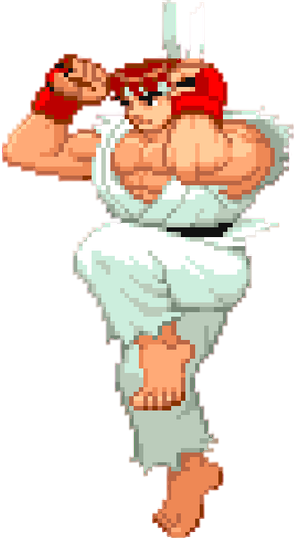
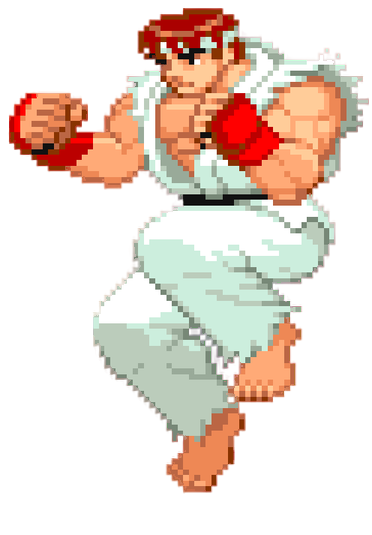
fix: ajusta a lógica de animação e atualiza as imagens de animação

diff --git a/js/Character.js b/js/Character.js
@@ -18,9 +18,9 @@ class Character {
         // Orientação (se é P1 olha pra direita, se é P2 olha pra esquerda)
         this.ePlayer1 = ePlayer1;
 
-        this.nome = nomePersonagem;
+        this.nome = nomePersonagem.toLowerCase();
 
-        this.orientacaoNativa = this.acharOrientacaoPersonagem(this.nome);
+        this.orientacaoNativa = this.acharOrientacaoPersonagem(nomePersonagem);
 
         // Velocidade de Movimento
         this.velocidadeX = 0;
@@ -38,9 +38,10 @@ class Character {
 
         //Contador da imagem
         this.contImg = 0;
+        this.derrotaImg = 0;
 
         // carrega a imagem de introdução ou estado atual
-        this.imagem.src = `assets/personagem/${this.nome.toLowerCase()}/${this.nome.toLowerCase()}-basic.png`;
+        this.imagem.src = `assets/personagem/${this.nome}/${this.nome}-basic.png`;
 
         // orientação do personagem
         this.olhandoParaEsquerda = !ePlayer1;
@@ -58,8 +59,8 @@ class Character {
         this.teclaJabLiberada = true;
         this.teclaChuteLiberada = true;
         // Tempo em milissegundos entre ataques
-        this.tempoCooldownAtaque = 320;
-        this.duracaoAtaque = 200;
+        this.tempoCooldownAtaque = 300;
+        this.duracaoAtaque = 220;
         this.atacando = false;
     }
 
@@ -168,11 +169,11 @@ class Character {
         if (!this.estaNoChao || this.atacando) return;
 
         if(this.contImg % 40 == 0){
-            this.imagem.src = `assets/personagem/${this.nome.toLowerCase()}/${this.nome.toLowerCase()}1.png`;
+            this.imagem.src = `assets/personagem/${this.nome}/${this.nome}1.png`;
         } else if (this.contImg % 40 == 12){
-            this.imagem.src = `assets/personagem/${this.nome.toLowerCase()}/${this.nome.toLowerCase()}2.png`;
+            this.imagem.src = `assets/personagem/${this.nome}/${this.nome}2.png`;
         } else if (this.contImg % 40 == 25){
-            this.imagem.src = `assets/personagem/${this.nome.toLowerCase()}/${this.nome.toLowerCase()}3.png`;
+            this.imagem.src = `assets/personagem/${this.nome}/${this.nome}3.png`;
         }
     }
 
@@ -183,10 +184,18 @@ class Character {
         // Não troca a imagem se estiver no ar ou atacando
         if (!this.estaNoChao || this.atacando) return;
 
-        if(this.contImg % 20 == 0){
-            this.imagem.src = `assets/personagem/${this.nome.toLowerCase()}/${this.nome.toLowerCase()}-front.png`;
-        } else if(this.contImg % 20 == 10){
-            this.imagem.src = `assets/personagem/${this.nome.toLowerCase()}/${this.nome.toLowerCase()}-front.png`;
+        if(this.ePlayer1){
+            if(this.contImg % 20 == 0){
+                this.imagem.src = `assets/personagem/${this.nome}/${this.nome}-basic.png`;
+            } else if(this.contImg % 20 == 10){
+                this.imagem.src = `assets/personagem/${this.nome}/${this.nome}-front.png`;
+            }
+        } else {
+            if(this.contImg % 20 == 0){
+                this.imagem.src = `assets/personagem/${this.nome}/${this.nome}-basic.png`;
+            } else if(this.contImg % 20 == 10){
+                this.imagem.src = `assets/personagem/${this.nome}/${this.nome}-late.png`;
+            }
         }
     }
 
@@ -197,10 +206,18 @@ class Character {
         // Não troca a imagem se estiver no ar ou atacando
         if (!this.estaNoChao || this.atacando) return;
 
-        if(this.contImg % 20 == 0){
-            this.imagem.src = `assets/personagem/${this.nome.toLowerCase()}/${this.nome.toLowerCase()}-late.png`;
-        } else if(this.contImg % 20 == 10){
-            this.imagem.src = `assets/personagem/${this.nome.toLowerCase()}/${this.nome.toLowerCase()}-late.png`;
+        if(this.ePlayer1){
+            if(this.contImg % 20 == 0){
+                this.imagem.src = `assets/personagem/${this.nome}/${this.nome}-basic.png`;
+            } else if(this.contImg % 20 == 10){
+                this.imagem.src = `assets/personagem/${this.nome}/${this.nome}-late.png`;
+            }
+        } else {
+            if(this.contImg % 20 == 0){
+                this.imagem.src = `assets/personagem/${this.nome}/${this.nome}-basic.png`;
+            } else if(this.contImg % 20 == 10){
+                this.imagem.src = `assets/personagem/${this.nome}/${this.nome}-front.png`;
+            }
         }
     }
 
@@ -209,14 +226,23 @@ class Character {
 
         this.podeAtacar = false;
         this.atacando = true;
-        this.imagem.src = `assets/personagem/${this.nome.toLowerCase()}/${this.nome.toLowerCase()}-jab2.png`;
 
-        // Finaliza a imagem e a ação do golpe
+        // Início do soco
+        this.imagem.src = `assets/personagem/${this.nome}/${this.nome}-jab1.png`;
+
+        // Extensão do soco (após 1/10 da duração)
+        setTimeout(() => {
+            if (this.atacando) {
+                this.imagem.src = `assets/personagem/${this.nome}/${this.nome}-jab2.png`;
+            }
+        }, this.duracaoAtaque / 10);
+
+        // Fim da Animação do Golpe
         setTimeout(() => {
             this.atacando = false; 
         }, this.duracaoAtaque);
 
-        // Libera o jogador para bater novamente
+        // Libera o Cooldown para o próximo ataque
         setTimeout(() => {
             this.podeAtacar = true;
         }, this.duracaoAtaque + this.tempoCooldownAtaque);
@@ -227,14 +253,23 @@ class Character {
 
         this.podeAtacar = false;
         this.atacando = true;
-        this.imagem.src = `assets/personagem/${this.nome.toLowerCase()}/${this.nome.toLowerCase()}-short2.png`;
 
-        // Finaliza a imagem e a ação do golpe
+        // Início do chute
+        this.imagem.src = `assets/personagem/${this.nome}/${this.nome}-short1.png`;
+
+        // Extensão do chute (após 1/3 da duração)
+        setTimeout(() => {
+            if (this.atacando) {
+                this.imagem.src = `assets/personagem/${this.nome}/${this.nome}-short2.png`;
+            }
+        }, this.duracaoAtaque / 3);
+
+        // Fim da Animação do Golpe
         setTimeout(() => {
             this.atacando = false; 
         }, this.duracaoAtaque);
 
-        // Libera o jogador para bater novamente
+        // Libera o Cooldown para o próximo ataque
         setTimeout(() => {
             this.podeAtacar = true;
         }, this.duracaoAtaque + this.tempoCooldownAtaque);
@@ -242,7 +277,14 @@ class Character {
 
     agaixar(){
         if (this.atacando) return;
-        this.imagem.src = `assets/personagem/${this.nome.toLowerCase()}/${this.nome.toLowerCase()}-guard.png`;
+
+        this.contImg++;
+
+        if(this.contImg % 40 == 0){
+            this.imagem.src = `assets/personagem/${this.nome}/${this.nome}-basic.png`;
+        } else if (this.contImg % 40 == 10){
+            this.imagem.src = `assets/personagem/${this.nome}/${this.nome}-guard.png`;
+        }
     }
 
 
@@ -254,7 +296,7 @@ class Character {
             // Trava até soltar a tecla
             this.teclaPuloLiberada = false;
 
-            this.imagem.src = `assets/personagem/${this.nome.toLowerCase()}/${this.nome.toLowerCase()}-jump-up.png`;
+            this.imagem.src = `assets/personagem/${this.nome}/${this.nome}-jump-up.png`;
         }
     }
 
@@ -265,9 +307,9 @@ class Character {
 
             if (!this.atacando) {
                 if(this.velocidadeY < 0){
-                    this.imagem.src = `assets/personagem/${this.nome.toLowerCase()}/${this.nome.toLowerCase()}-jump-up.png`;
+                    this.imagem.src = `assets/personagem/${this.nome}/${this.nome}-jump-up.png`;
                 } else{
-                    this.imagem.src = `assets/personagem/${this.nome.toLowerCase()}/${this.nome.toLowerCase()}-jump-down.png`;
+                    this.imagem.src = `assets/personagem/${this.nome}/${this.nome}-jump-down.png`;
                 }
             }
         }
@@ -287,11 +329,24 @@ class Character {
     }
 
     derrota(){
-        this.imagem.src = `assets/personagem/${this.nome.toLowerCase()}/${this.nome.toLowerCase()}-deaft2.png`;
+        this.derrotaImg++;
+        if(this.contImg < 10){
+            this.imagem.src = `assets/personagem/${this.nome}/${this.nome}-defeat1.png`;
+        } else if (this.contImg < 20){
+            this.imagem.src = `assets/personagem/${this.nome}/${this.nome}-defeat2.png`;
+        } else {
+            this.imagem.src = `assets/personagem/${this.nome}/${this.nome}-defeat3.png`;
+        }
     }
 
     vitoria(){
-        this.imagem.src = `assets/personagem/${this.nome.toLowerCase()}/${this.nome.toLowerCase()}-victory1.png`;
+        this.contImg++;
+
+        if(this.contImg % 40 == 0){
+            this.imagem.src = `assets/personagem/${this.nome}/${this.nome}-victory1.png`;
+        } else if (this.contImg % 40 == 10){
+            this.imagem.src = `assets/personagem/${this.nome}/${this.nome}-victory2.png`;
+        }
     }
 
     // impede o personagem sair da area visivel
